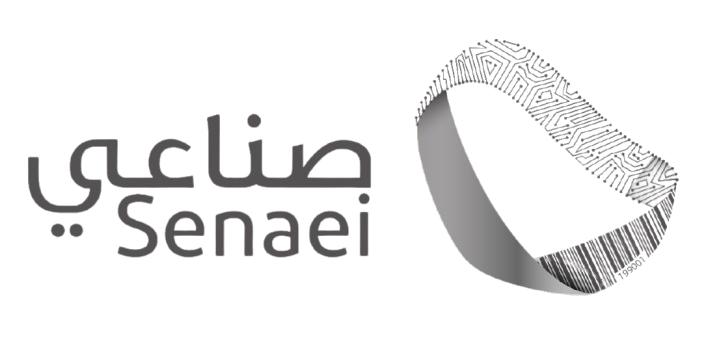
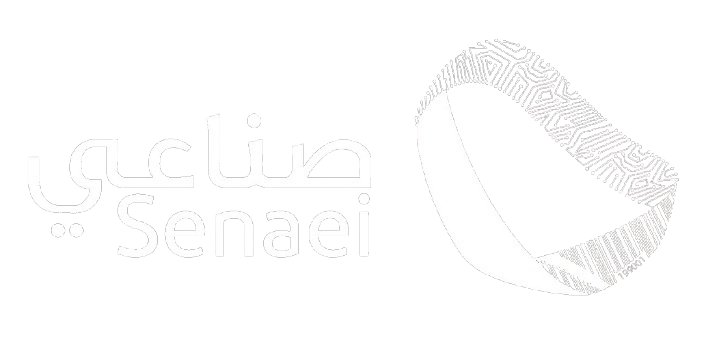
fix: fix navbar

Changed region(s): [[0.5921, 0.0935, 0.966, 0.8414], [0.0312, 0.3116, 0.5297, 0.7479]]

diff --git a/src/app/components/navbar.tsx b/src/app/components/navbar.tsx
@@ -3,58 +3,11 @@
 import * as React from "react";
 import Link from "next/link";
 
-import {
-  NavigationMenu,
-  NavigationMenuContent,
-  NavigationMenuItem,
-  NavigationMenuLink,
-  NavigationMenuList,
-  NavigationMenuTrigger,
-  navigationMenuTriggerStyle,
-} from "@/components/ui/navigation-menu";
 import Image from "next/image";
-
-const components: { title: string; href: string; description: string }[] = [
-  {
-    title: "Alert Dialog",
-    href: "/docs/primitives/alert-dialog",
-    description:
-      "A modal dialog that interrupts the user with important content and expects a response.",
-  },
-  {
-    title: "Hover Card",
-    href: "/docs/primitives/hover-card",
-    description:
-      "For sighted users to preview content available behind a link.",
-  },
-  {
-    title: "Progress",
-    href: "/docs/primitives/progress",
-    description:
-      "Displays an indicator showing the completion progress of a task, typically displayed as a progress bar.",
-  },
-  {
-    title: "Scroll-area",
-    href: "/docs/primitives/scroll-area",
-    description: "Visually or semantically separates content.",
-  },
-  {
-    title: "Tabs",
-    href: "/docs/primitives/tabs",
-    description:
-      "A set of layered sections of content—known as tab panels—that are displayed one at a time.",
-  },
-  {
-    title: "Tooltip",
-    href: "/docs/primitives/tooltip",
-    description:
-      "A popup that displays information related to an element when the element receives keyboard focus or the mouse hovers over it.",
-  },
-];
 
 export function Navbar() {
   return (
-    <nav className="flex h-20 w-full items-center justify-between rounded-lg bg-blue-500/10 px-2 backdrop-blur-md backdrop-brightness-90">
+    <nav className="fixed z-50 top-0 left-0 bg-opacity-90  flex h-20 w-full items-center justify-between  bg-black *:  backdrop-blur-md backdrop-brightness-90">
       <div></div>
       <div className="flex gap-8">
         <Link href="/">

diff --git a/src/app/components/formInnovation.tsx b/src/app/components/formInnovation.tsx
@@ -442,7 +442,7 @@ export default function FormInnovation() {
   const prevStep = () => setStep((prevStep) => Math.max(prevStep - 1, 1));
 
   return (
-    <div className="container mx-auto py-10">
+    <div className="container mx-auto py-28  ">
       <Card className="w-full max-w-4xl mx-auto">
         <CardHeader>
           <CardTitle>Innovation in KSA's Manufacturing Sector</CardTitle>
